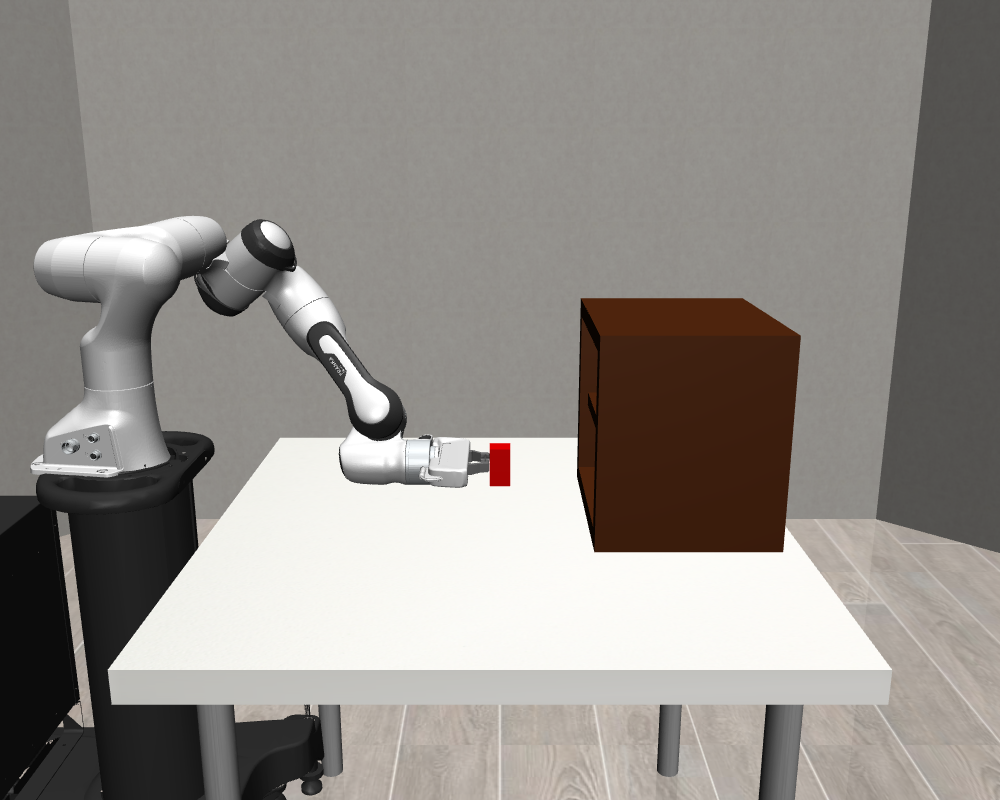
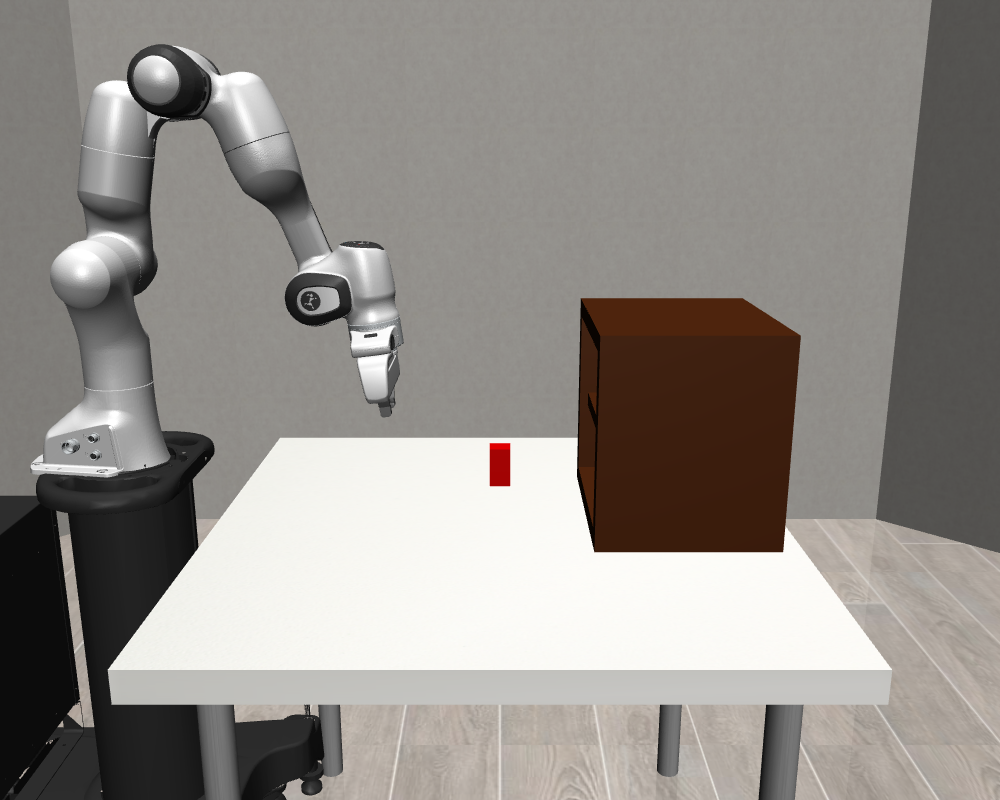
Fixed path duration and Sim freq

Changed region(s): [[0.031, 0.0312, 0.496, 0.625]]

diff --git a/panda_ws/src/panda_planner/src/motion_planner.cpp b/panda_ws/src/panda_planner/src/motion_planner.cpp
@@ -406,6 +406,9 @@ public:
             return this->checkCollision(q);
         });
 
+        //Finer resolution for state validity checking to avoid missing collisions
+        ss.getSpaceInformation()->setStateValidityCheckingResolution(0.001); // 1% of the space's maximum extent
+
         ompl::base::ScopedState<ompl::base::RealVectorStateSpace> start(space);
         for (std::size_t i = 0; i < 7; ++i)
         {
@@ -435,23 +438,61 @@ public:
         }
 
         ompl::geometric::PathGeometric path = ss.getSolutionPath();
-        path.interpolate();
 
         // Log path statistics before simplification
         size_t states_before = path.getStateCount();
-        RCLCPP_INFO(this->get_logger(), "Initial path has %zu states.", states_before);
+        RCLCPP_INFO(
+            this->get_logger(),
+            "Initial RRTConnect path has %zu states.",
+            states_before
+        );
 
-        // Simplify the path using OMPL's PathSimplifier
+        // Simplify the path
         ompl::geometric::PathSimplifier ps(ss.getSpaceInformation());
-        ps.simplify(path, OMPL_PLANNING_TIME * 0.1);  // Use 10% of planning time for simplification
+        ps.simplify(path, OMPL_PLANNING_TIME * 0.1);
+
+        RCLCPP_INFO(
+            this->get_logger(),
+            "Simplified path has %zu states.",
+            path.getStateCount()
+        );
+
+        // Explicitly verify the simplified path
+        if (!path.check())
+        {
+            RCLCPP_ERROR(
+                this->get_logger(),
+                "Simplified path failed collision validation."
+            );
+            return false;
+        }
+
+        // Now generate enough samples for trajectory execution
+        path.interpolate(100);
+
+        RCLCPP_INFO(
+            this->get_logger(),
+            "Interpolated execution path has %zu states.",
+            path.getStateCount()
+        );
+
+        // Verify the actual interpolated path as well
+        if (!path.check())
+        {
+            RCLCPP_ERROR(
+                this->get_logger(),
+                "Interpolated path failed collision validation."
+            );
+            return false;
+        }
 
         // Keep a dense trajectory even when OMPL simplifies aggressively.
         // This ensures the MuJoCo node gets a usable multi-point path instead of just the start/end states.
-        constexpr std::size_t target_samples = 20;
-        if (path.getStateCount() < target_samples)
-        {
-            path.interpolate(static_cast<int>(target_samples));
-        }
+        // constexpr std::size_t target_samples = 50;
+        // if (path.getStateCount() < target_samples)
+        // {
+        //     path.interpolate(static_cast<int>(target_samples));
+        // }
 
         // Log path statistics after simplification
         size_t states_after = path.getStateCount();
@@ -495,7 +536,7 @@ public:
         trajectory_msg.joint_names = current_joint_names_;
         trajectory_msg.points.resize(path.getStateCount());
 
-        const double total_duration = std::max(0.1, path_length * 0.12);
+        const double total_duration = std::max(2.0, path_length * 1.0);
         const double dt = path.getStateCount() > 1 ? total_duration / (path.getStateCount() - 1) : 0.0;
         for (std::size_t i = 0; i < path.getStateCount(); ++i)
         {

diff --git a/panda_ws/src/panda_collision_checker/panda_collision_checker/mujoco_node.py b/panda_ws/src/panda_collision_checker/panda_collision_checker/mujoco_node.py
@@ -76,7 +76,7 @@ class MujocoNode(Node):
         self.input_device_initialized = False
         
         # Single synchronized simulation/render/publish loop
-        self.sim_timer = self.create_timer(0.05, self.simulation_loop)
+        self.sim_timer = self.create_timer(0.01, self.simulation_loop)
 
     def print_gripper_orientation(self):
         """Print current gripper orientation as quaternion in xyzw order."""

diff --git a/panda_ws/src/panda_collision_checker/panda_collision_checker/test_collision.py b/panda_ws/src/panda_collision_checker/panda_collision_checker/test_collision.py
@@ -32,7 +32,7 @@ def main():
     # --------------------------------------------------
     
     q = np.array([
-        1.248598, 1.486258, -0.740695, -1.754895, -2.134374, 2.202970, 1.200000
+        -0.000000, 0.196350, -0.000000, -2.617994, 0.000000, 2.941593, 0.785398
     ])
 
     # --------------------------------------------------

diff --git a/panda_ws/src/panda_collision_checker/panda_collision_checker/Panda_scene.py b/panda_ws/src/panda_collision_checker/panda_collision_checker/Panda_scene.py
@@ -57,7 +57,7 @@ class PandaScene(SingleArmEnv):
             horizon=1000,
             ignore_done=True,
             hard_reset=False,
-            render_camera="robot0_eye_in_hand",
+            render_camera="agentview",
             camera_heights=None,
             camera_widths=None,
             camera_depths=None,

diff --git a/README.md b/README.md
@@ -10,6 +10,6 @@ ros2 launch panda_collision_checker mujoco_node.launch.py
 ros2 launch panda_collision_checker mujoco_node.launch.py control_mode:=manual
 
 # Or via command line
-ros2 run panda_collision_checker mujoco_node --ros-args -p control_mode:=manual device_type:=spacemouse
+ros2 run panda_collision_checker mujoco_node --ros-args -p control_mode:=manual -p device_type:=spacemouse
 
 rm -rf ~/.ros/log/*
